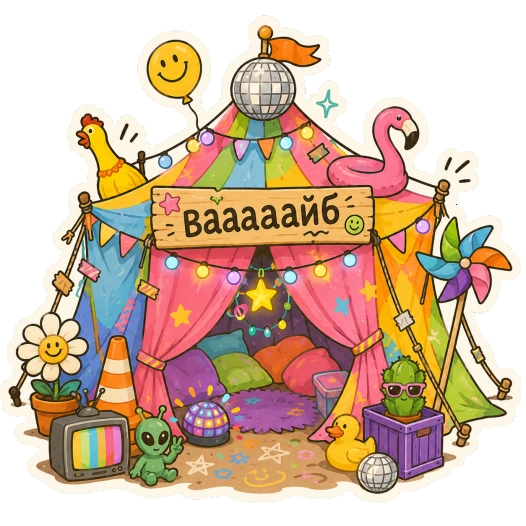
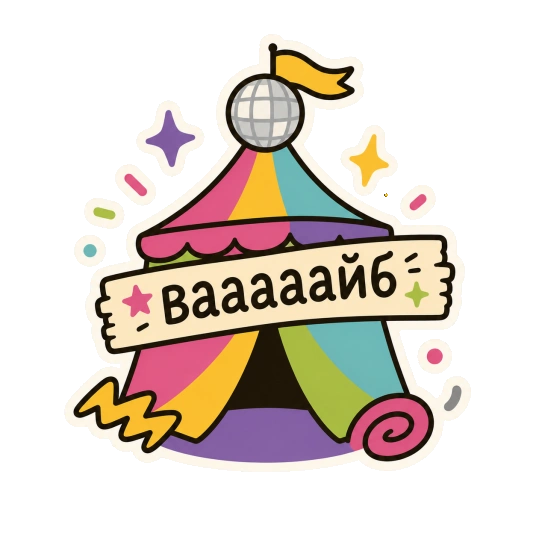
Updated achievements

diff --git a/common/data/achievements.py b/common/data/achievements.py
@@ -476,20 +476,20 @@ ACHIEVEMENTS = [
     ("club_chef", {
         "name": "Клубный Повар",
         "description": "Готовил вкусных едов клубням в оффлайне",
-        "image": "https://vas3k.club/static/images/achievements/club_chef.webp",
-        "style": "background-color: #FF5154; font-size: 130%;",
+        "image": "http://127.0.0.1:8000/static/images/achievements/club_chef.webp",
+        "style": "background-color: #F6DBA8; font-size: 130%;",
     }),
     ("club_engineer", {
         "name": "Инженер конструктор",
         "description": "DIY-ил что-то в оффлайне вместе с другими клубнями",
-        "image": "https://vas3k.club/static/images/achievements/club_engineer.webp",
-        "style": "background-color: #FF5154; font-size: 130%;",
+        "image": "http://127.0.0.1:8000/static/images/achievements/club_engineer.webp",
+        "style": "background-color: #C98F43; font-size: 130%;",
     }),
     ("vibe_creator", {
         "name": "Творец вайбов",
         "description": "За особые заслуги в вытворении чудачеств в оффлайне",
-        "image": "https://vas3k.club/static/images/achievements/vibe_creator.webp",
-        "style": "background-color: #FF5154; font-size: 130%;",
+        "image": "http://127.0.0.1:8000/static/images/achievements/vibe_creator.webp",
+        "style": "background-color: #FF6BC5; font-size: 140%;",
     }),
 ]
 